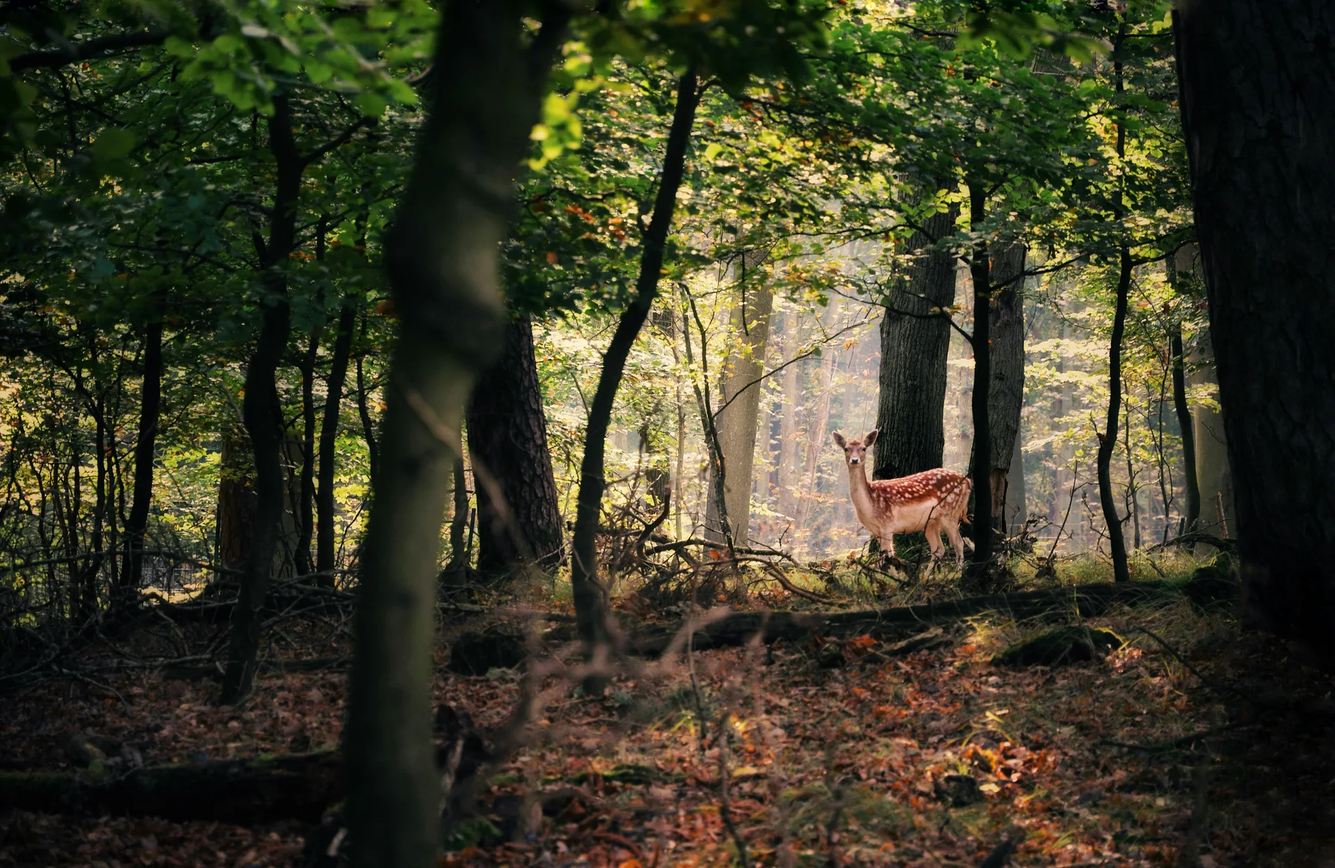
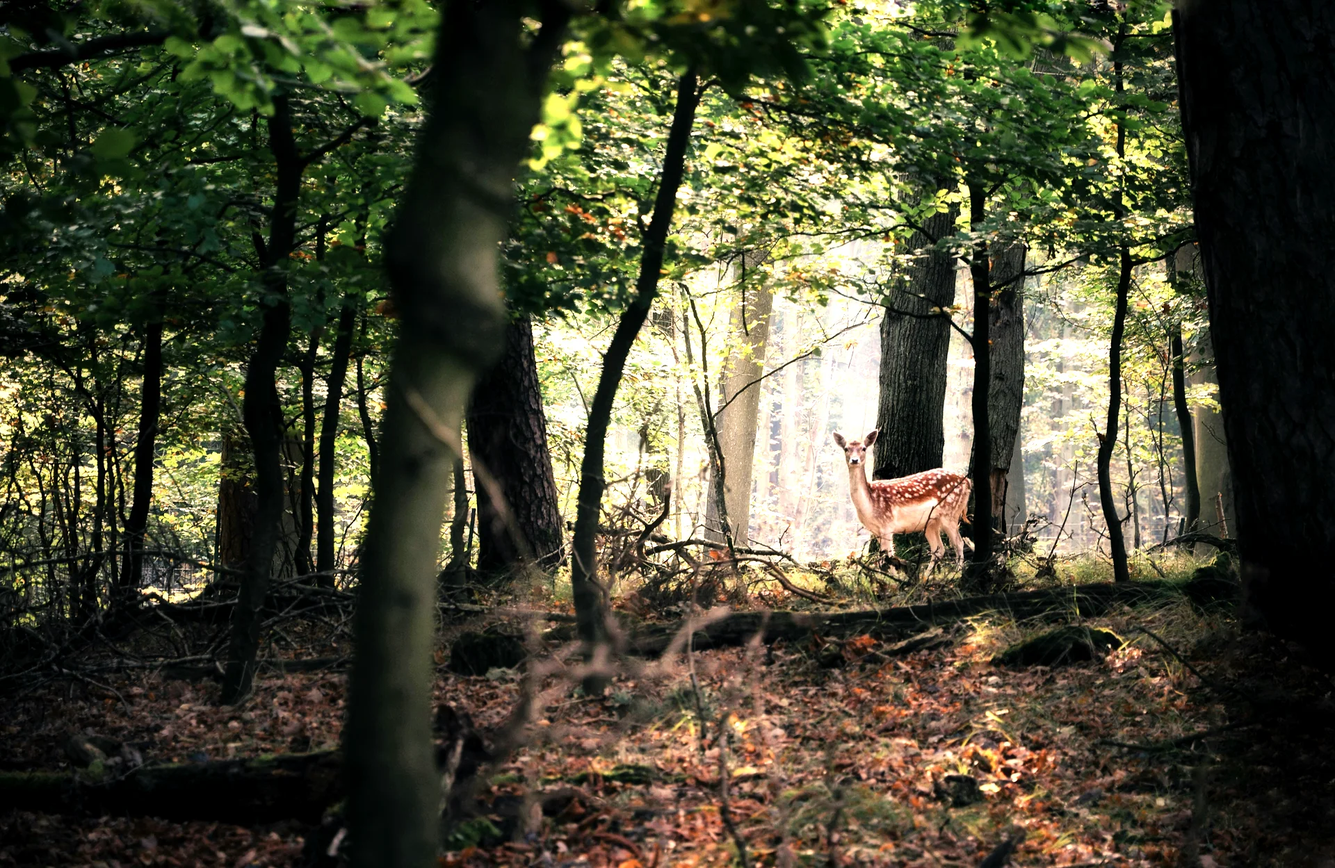
Lighten Blue Springs Ranch hero
- Brighten the deer-in-forest photo itself
- Cut the dark gradient overlay opacity roughly in half
- Add a text-shadow to hero text so it stays legible over the
  brighter, dappled background

diff --git a/css/styles.css b/css/styles.css
@@ -850,9 +850,10 @@ button.gallery-tile img { transition: transform 0.35s ease; }
   content: "";
   position: absolute;
   inset: 0;
-  background: linear-gradient(100deg, rgba(7, 62, 66, 0.86) 0%, rgba(7, 62, 66, 0.55) 100%);
+  background: linear-gradient(100deg, rgba(7, 62, 66, 0.42) 0%, rgba(7, 62, 66, 0.18) 100%);
 }
 .chero .wrap { position: relative; z-index: 2; padding: 116px 24px; }
+.chero h1, .chero .eyebrow, .chero-lede, .chero-meta span { text-shadow: 0 2px 10px rgba(0, 0, 0, 0.55); }
 .chero h1 { font-size: clamp(2.6rem, 6vw, 4.6rem); margin: 14px 0 16px; }
 .chero-lede { max-width: 54ch; color: #d7deea; }
 .chero-meta {
